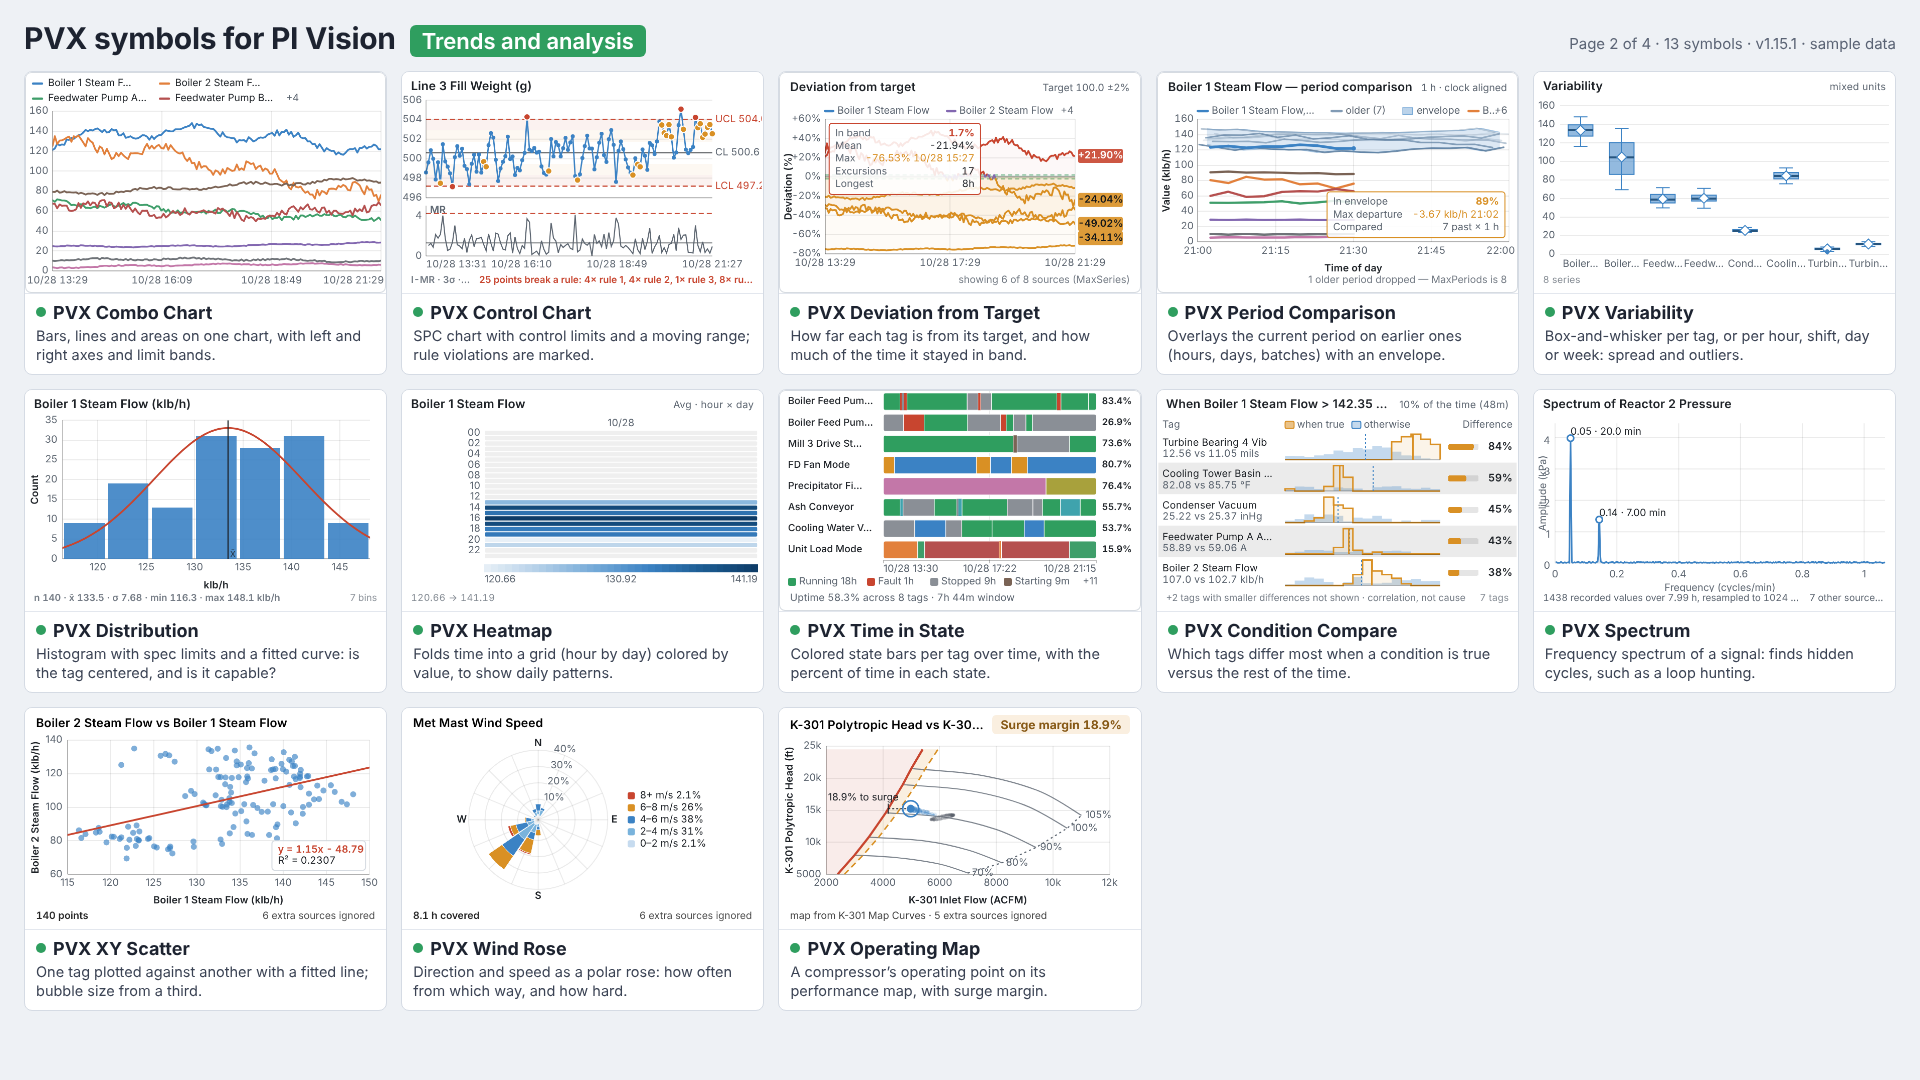
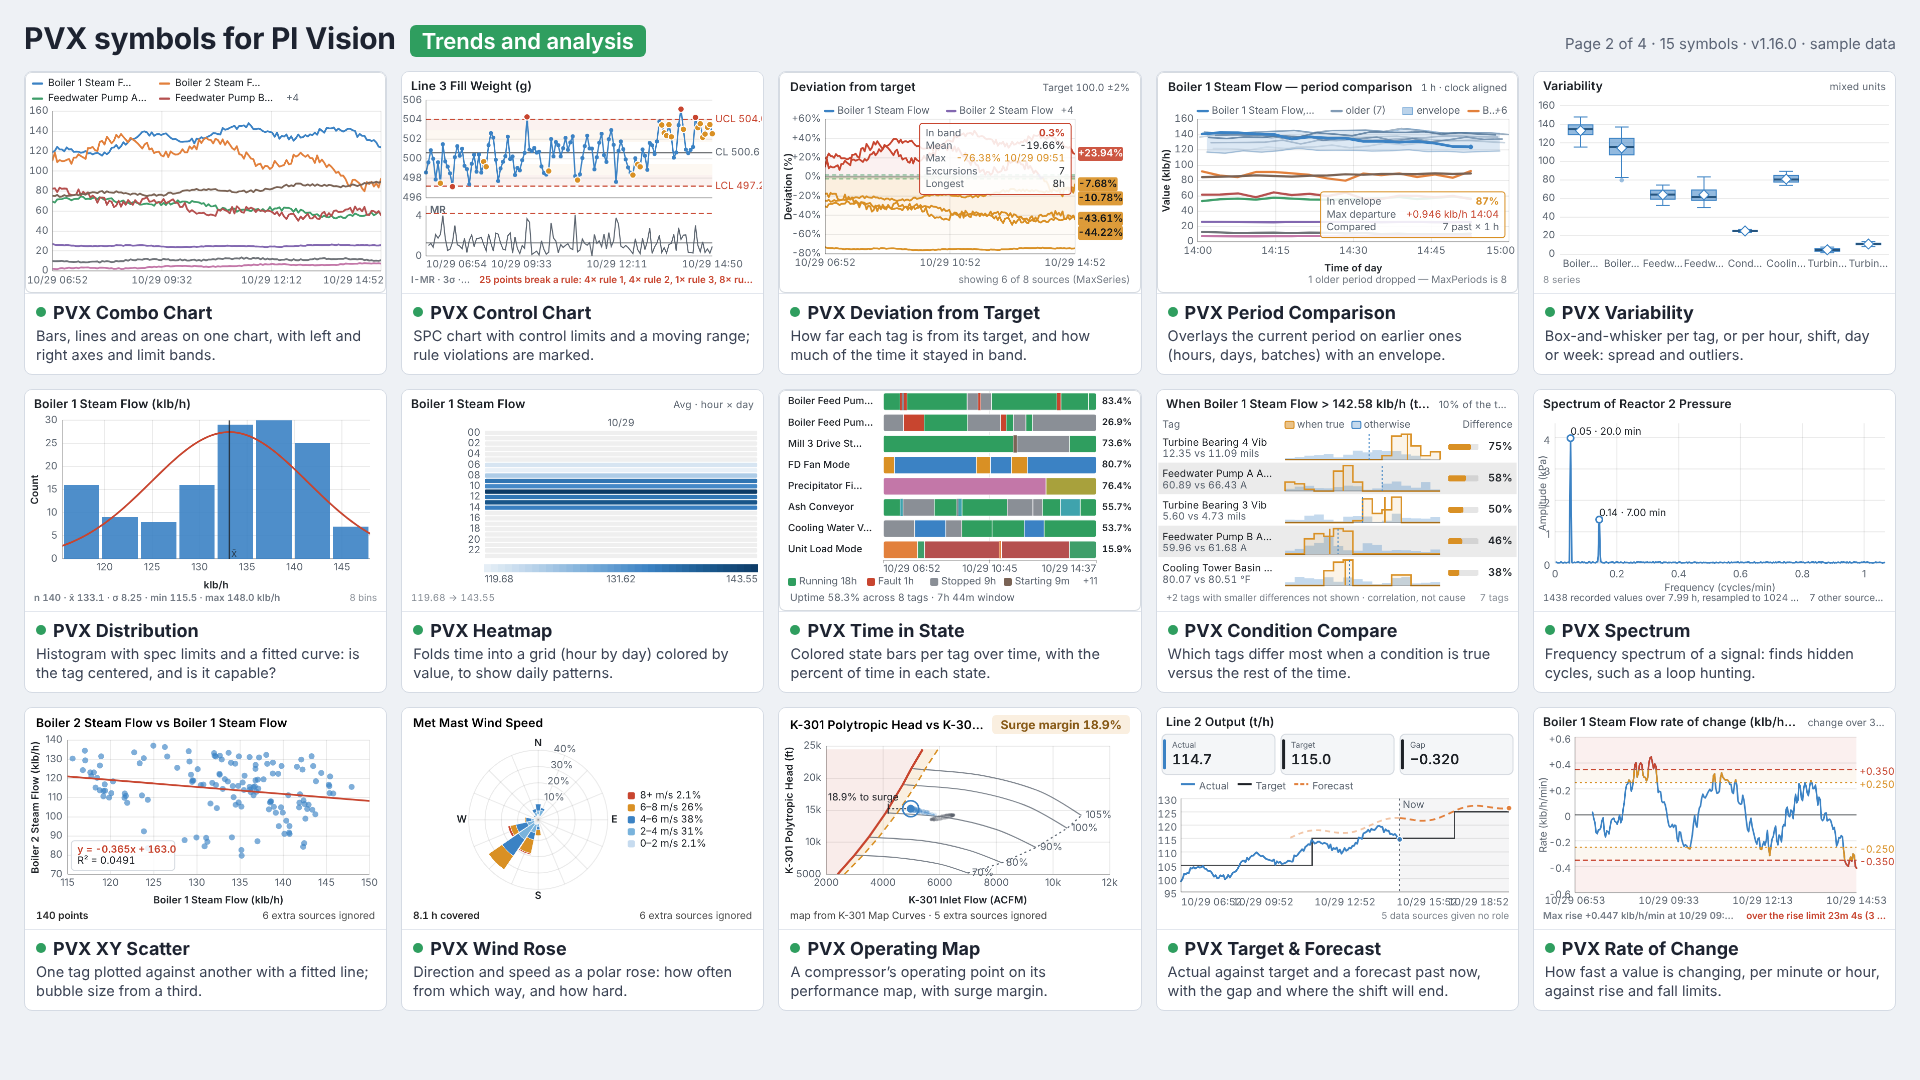
Refresh the symbol picture guide for 52 symbols (#42)
Every picture in docs/symbol-guide re-rendered from main after collections, configurable labels, Target & Forecast and Rate of Change landed. The two new charts join the trends page (now 15); the poster becomes pvx-symbols-all-52.png in 13 columns. README updated to match.

diff --git a/README.md b/README.md
@@ -30,11 +30,10 @@ onto a PI Vision display with the Image symbol:
 [trends and analysis](docs/symbol-guide/pvx-symbols-2-trends-analysis.png),
 [breakdowns, profiles and layouts](docs/symbol-guide/pvx-symbols-3-breakdowns-profiles-layouts.png) and
 [navigation, events and data entry](docs/symbol-guide/pvx-symbols-4-navigation-events-entry.png).
-[All 50 on one poster](docs/symbol-guide/pvx-symbols-all-50.png) (3840 px wide) is
+[All 52 on one poster](docs/symbol-guide/pvx-symbols-all-52.png) (3840 px wide) is
 for a wall screen or print; at 1920 its text is too small to read. They were
-rendered from 1.15.1 on sample data and are not rebuilt by the build, so a
-symbol that changes its look after that will not match its picture, and
-`pvxTargetForecast` and `pvxRateOfChange`, added later, are not in them.
+rendered from 1.16.0 on sample data and are not rebuilt by the build, so a
+symbol that changes its look after that will not match its picture.
 
 ### Charts and analytics
 
